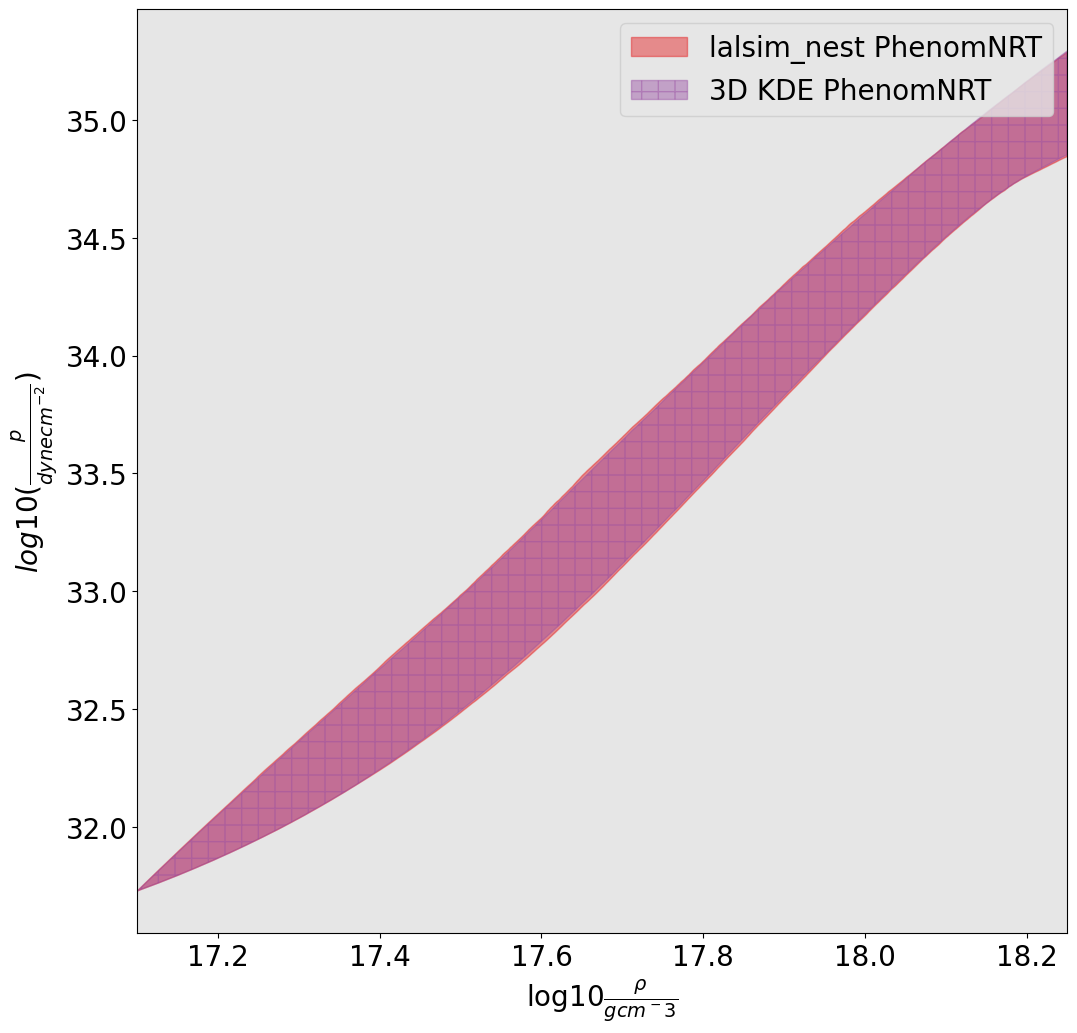
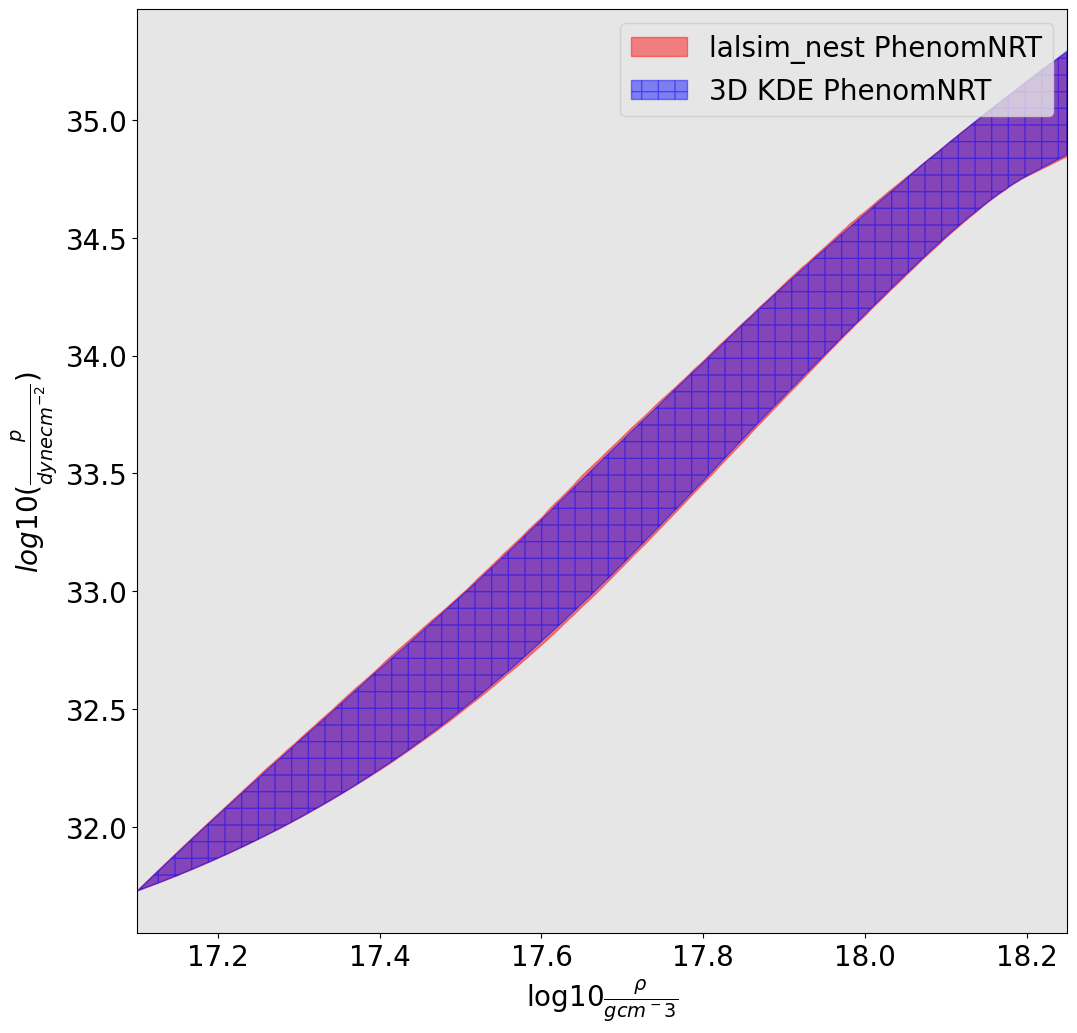
Solely compared the 3D KDE with lalsim result.3

Changed region(s): [[0.1226, 0.031, 1.0, 0.8674], [0.5822, 0.062, 0.6435, 0.1239]]

diff --git a/year3/lastStretch/eventConstraint.py b/year3/lastStretch/eventConstraint.py
@@ -142,6 +142,7 @@ def plotConstraint():
     #Labels = ["3D KDE TaylorF2", "3D KDE PhenomNRT"]
     #Colors = ['#e41a1c','#377eb8','#4daf4a','#984ea3']
     Colors = ['#e41a1c','#984ea3']
+    Colors = ['red','blue']
     #Colors = ['#e41a1c','#377eb8','#4daf4a']
     #Colors = ['#e41a1c','#377eb8']
     #Colors = ['#377eb8','#4daf4a']
